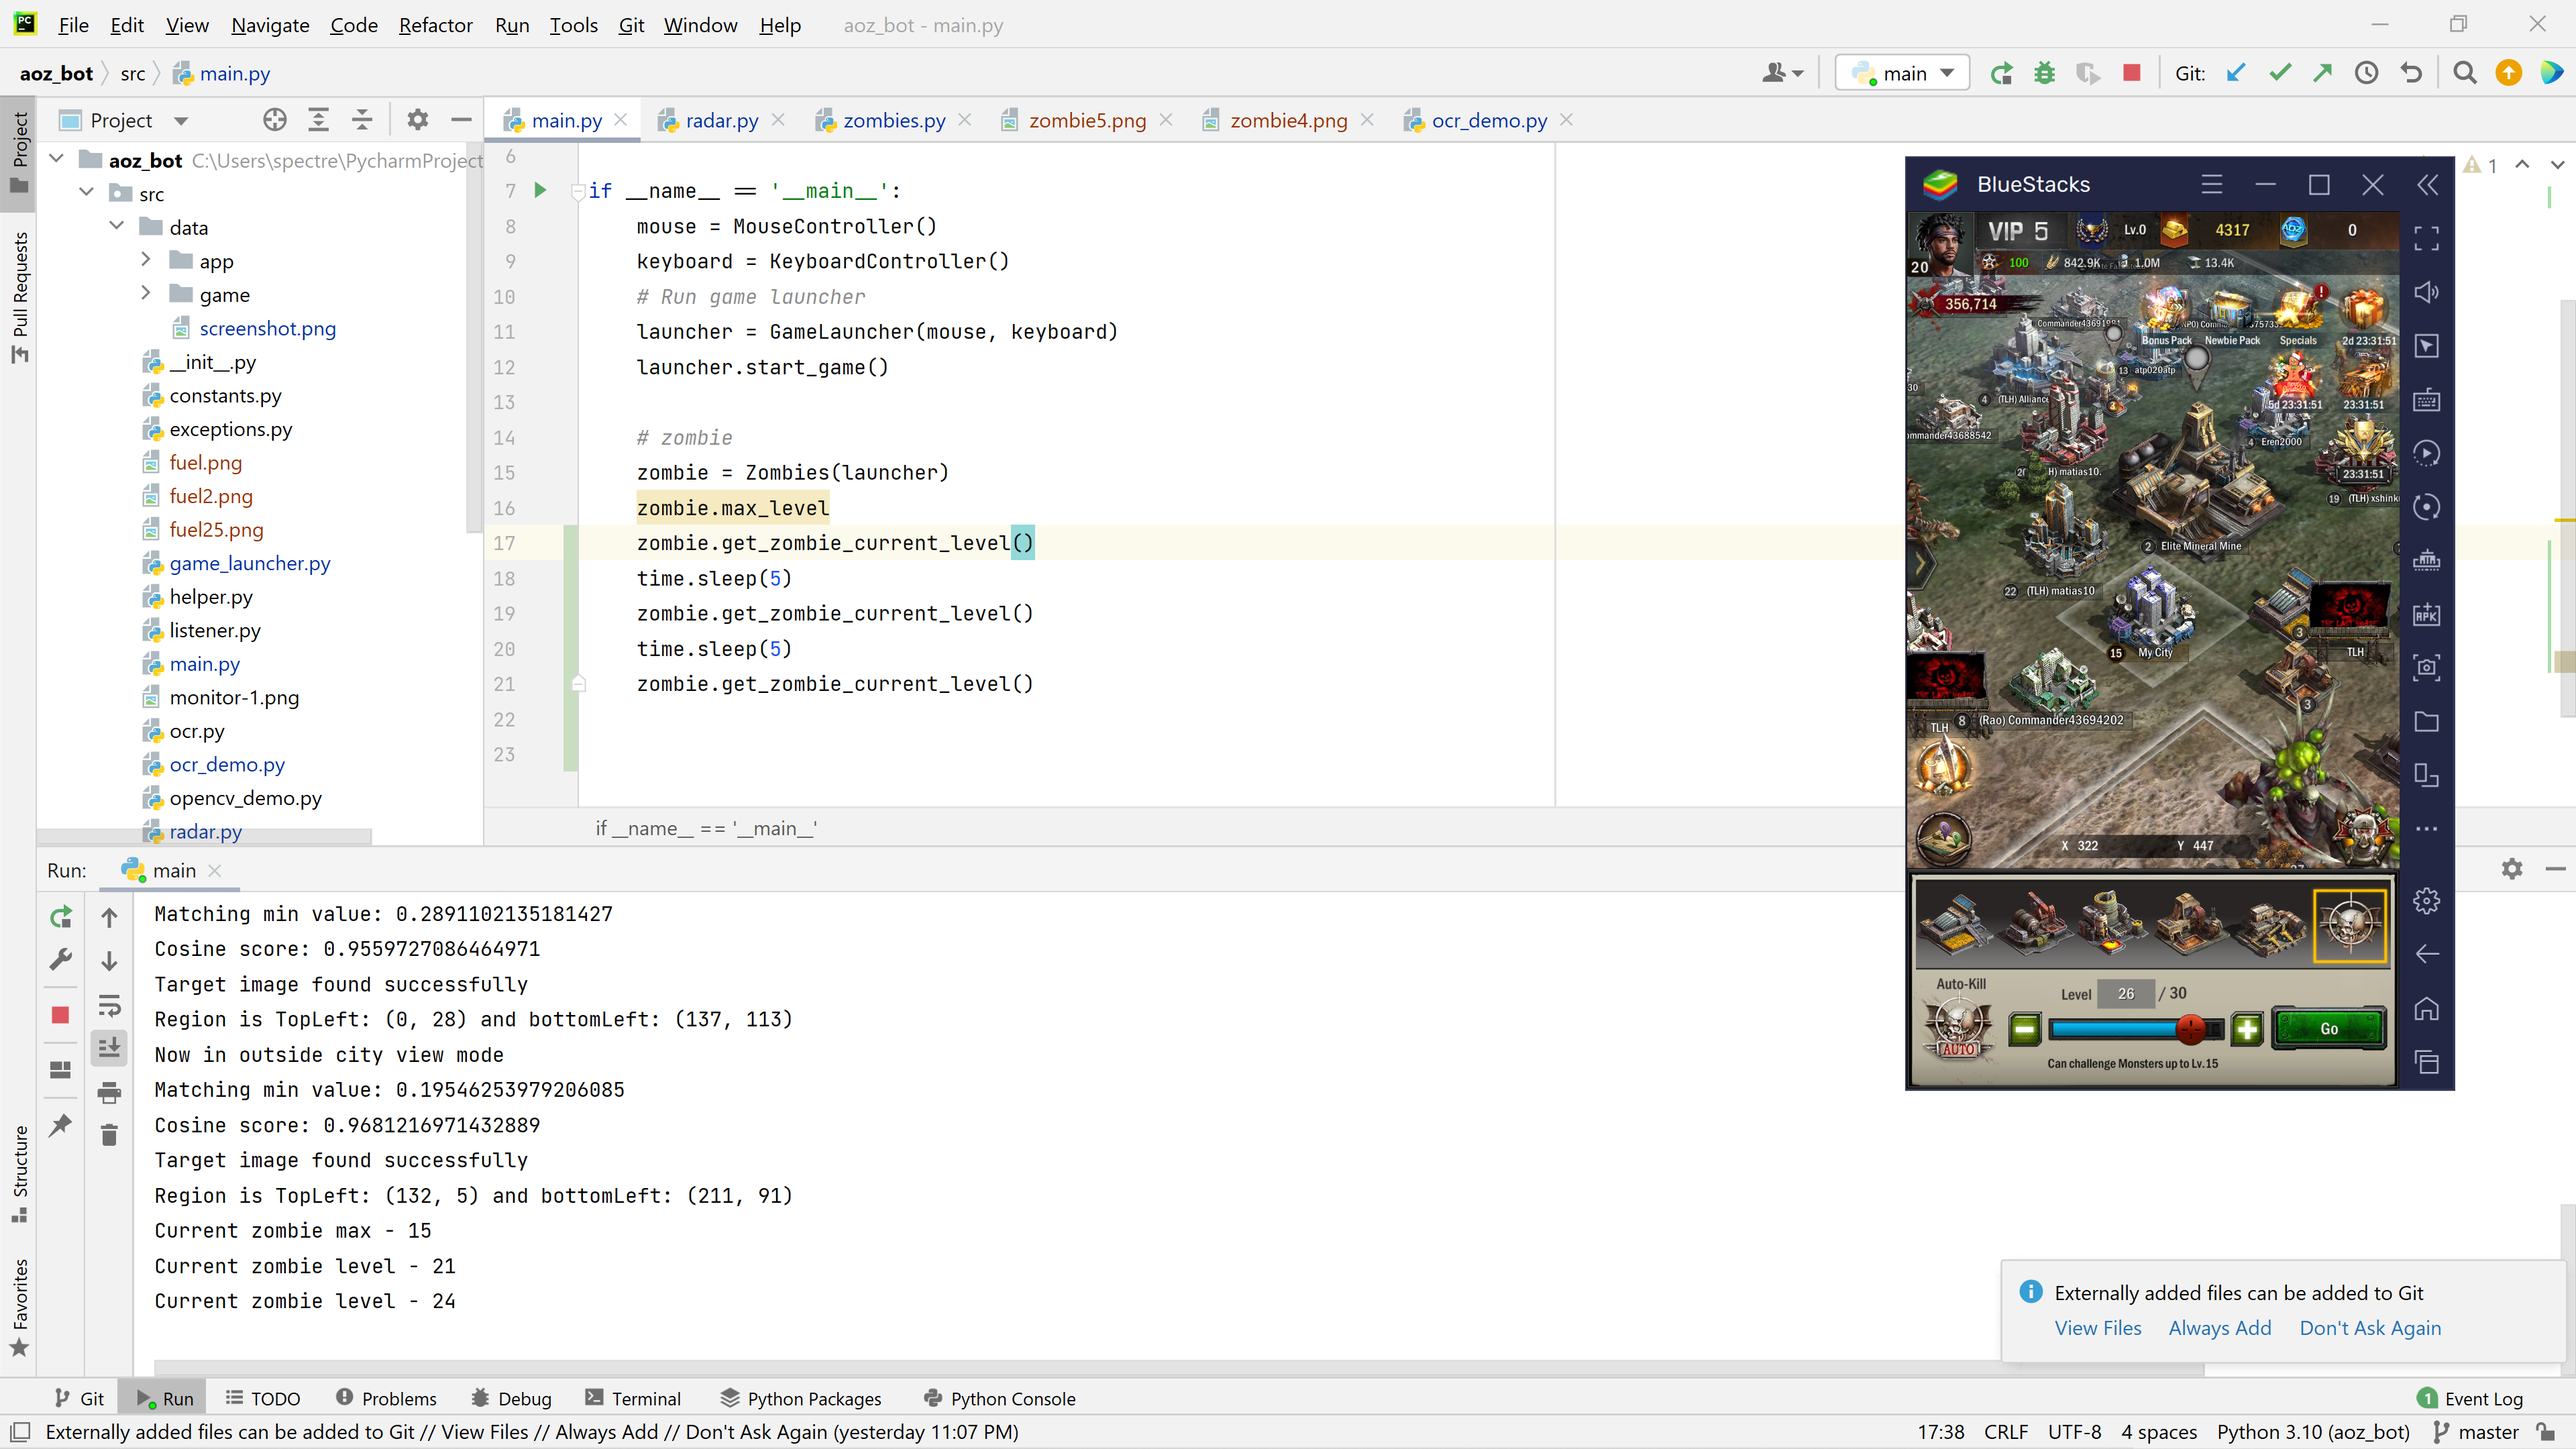
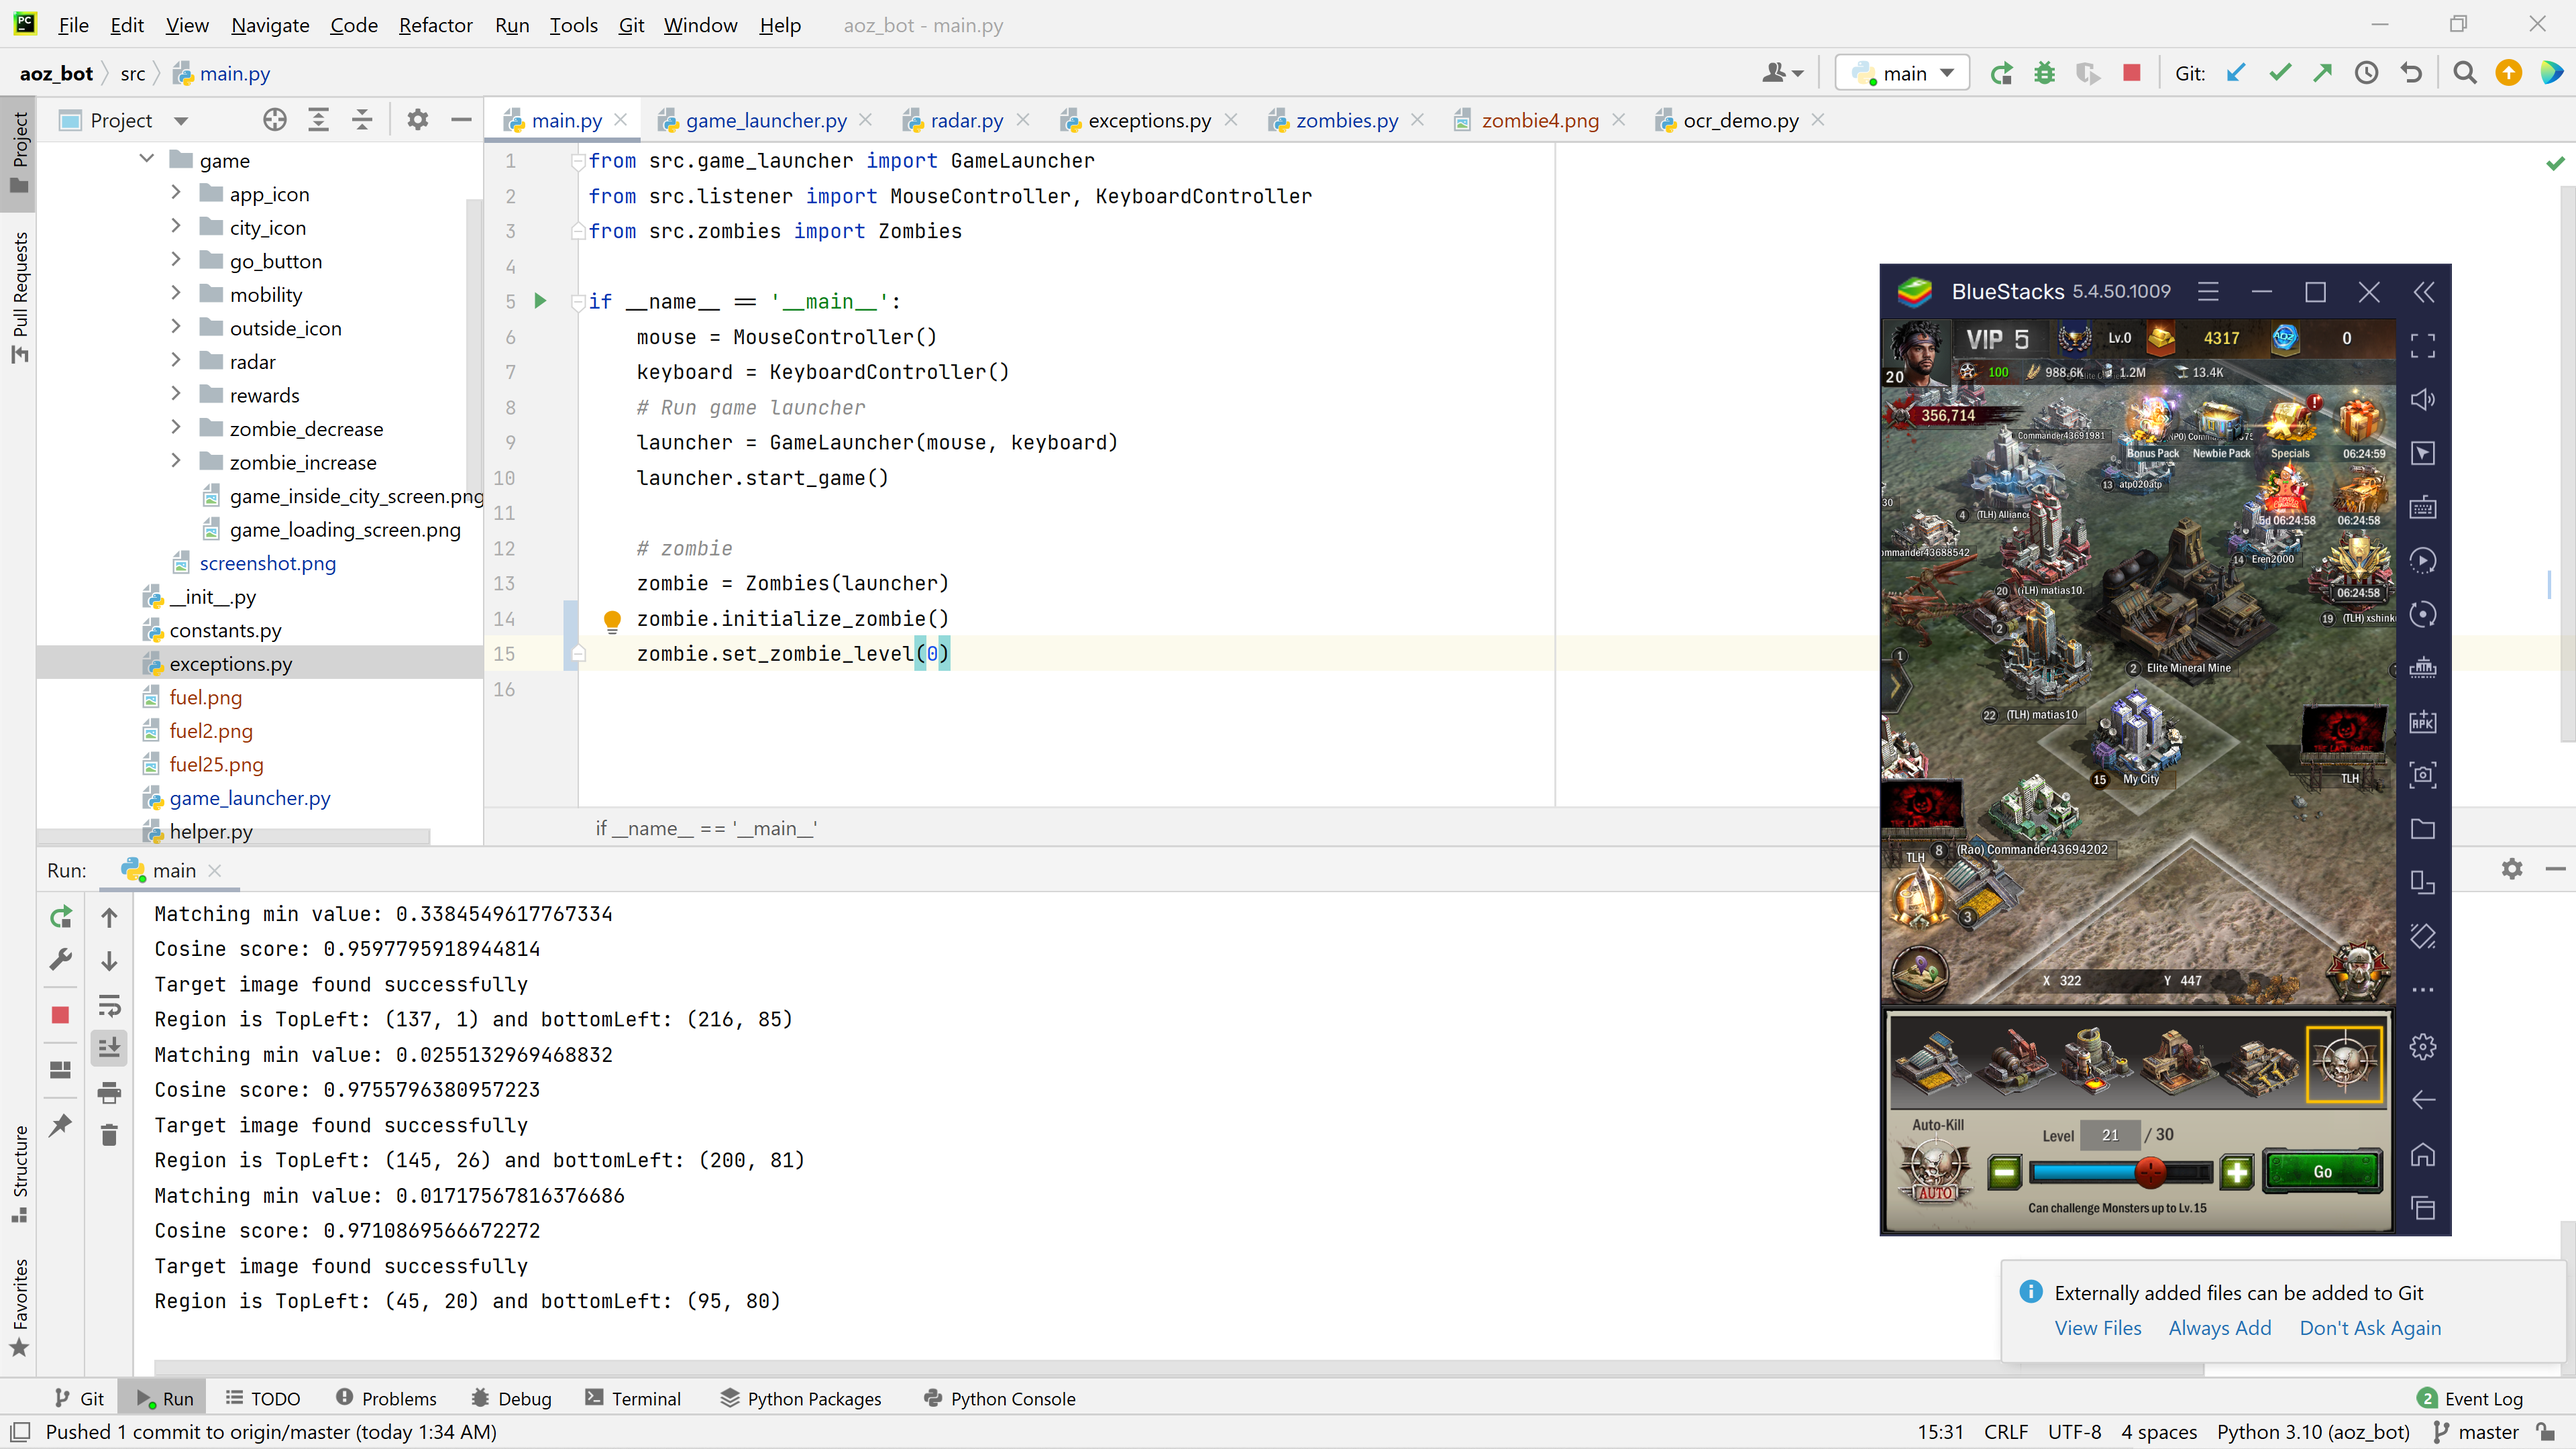
Adds support for setting the zombie level.  - Add support for getting to go button in the radar options  - Added zombie initialization code.

diff --git a/src/zombies.py b/src/zombies.py
@@ -1,11 +1,14 @@
 """Responsible for killing zombies in the Game event"""
+import time
+from typing import Optional
+
 import cv2
 import numpy as np
 
 from src.constants import OUTSIDE_VIEW, BOTTOM_IMAGE, LEFT_IMAGE, RIGHT_IMAGE
 from src.exceptions import ZombieException
 from src.game_launcher import GameLauncher
-from src.helper import GameHelper
+from src.helper import GameHelper, Coordinates
 from src.ocr import get_text_from_image
 from src.radar import Radar
 
@@ -22,7 +25,7 @@ class Zombies:
      - find and click on the find zombie radar ---- done
      - get the current level of zombie for the user --- done
      - increase and decrease the zombie level. -- done
-     - get the current zombie level ---
+     - get the current zombie level --- done
      - click on go to find any available zombie
      - search and find the arrow that shows for about 6 secs before disappearing
      - click on the given zombie (confirm it is the right zombie level)
@@ -46,8 +49,8 @@ class Zombies:
         self._fuel = None
         self.launcher = launcher
         self._max_level = None
-        self._decrease_btn_cords = None
-        self._increase_btn_cords = None
+        self._decrease_btn_cords: Optional[Coordinates] = None
+        self._increase_btn_cords: Optional[Coordinates] = None
         self.radar = Radar(self.launcher)
 
     @property
@@ -124,8 +127,6 @@ class Zombies:
         Gets the current max level of zombie
         :return: Current zombie max level
         """
-        # Set to the zombie radar screen
-        self.radar.select_radar_menu(6)
         zombie_section, _ = self.launcher. \
             get_screen_section(4, BOTTOM_IMAGE)
         t_h, t_w, _ = zombie_section.shape
@@ -181,6 +182,13 @@ class Zombies:
                                          self._increase_btn_cords.start_y)
         self.launcher.mouse.move(*increase_center)
 
+    def initialize_zombie(self):
+        """Initialize zombie buttons"""
+        # Set to the zombie radar screen
+        self.radar.select_radar_menu(6)
+        self.get_zombie_increment_position()
+        self._max_level = self.get_zombie_max()
+
     def get_zombie_current_level(self):
         """
         Fetches the current zombie level.
@@ -208,6 +216,62 @@ class Zombies:
             return int(zombie_level_val.strip())
 
         raise ZombieException("Zombie current level can not be extracted")
+
+    def zombie_go(self):
+        """
+        Activates the zombie go button to find the next available zombie.
+        :return:
+        """
+        self.launcher.mouse.set_position(self.radar.go_button)
+        center = GameHelper.get_center(self.radar.go_button)
+        self.launcher.mouse.move(*center)
+
+    def _adjust_level(self, level_type: str, increase_count: int):
+        """
+        Adjust the current zombie level to match the expected level
+        :return:
+        """
+        self.launcher.log_message(f'Adjusting zombie level - {level_type}, '
+                                  f'{increase_count}')
+        if level_type == 'INCREASE':
+            self.launcher.mouse.set_position(
+                self._increase_btn_cords.start_x,
+                self._increase_btn_cords.start_y)
+            center = GameHelper.get_center(self._increase_btn_cords)
+            self.launcher.mouse.move(*center)
+        elif level_type == 'DECREASE':
+            self.launcher.mouse.set_position(
+                self._decrease_btn_cords.start_x,
+                self._decrease_btn_cords.start_y)
+            center = GameHelper.get_center(self._decrease_btn_cords)
+            self.launcher.mouse.move(*center)
+        else:
+            raise ZombieException('Level type not supported')
+        time.sleep(1)
+        for _ in range(increase_count):
+            self.launcher.mouse.click()
+            time.sleep(1)
+
+    def set_zombie_level(self, level: int):
+        """
+        Set the zombie level. If level is greater than max level.
+        Set to max level - 1
+
+        :param level: The expected level.
+        :returns: None
+        """
+        new_level = self.max_level if level > self.max_level else level
+        # enforces new level is a positive real number
+        new_level = new_level if new_level > 0 else 1
+        current_level = self.get_zombie_current_level()
+        increase_count = abs(new_level - current_level)
+        self.launcher.log_message(f'Adjusting zombie level - {new_level}')
+        if new_level > current_level:
+            level_type = 'INCREASE'
+            self._adjust_level(level_type, increase_count)
+        elif new_level < current_level:
+            level_type = 'DECREASE'
+            self._adjust_level(level_type, increase_count)
 
     def zombie_city(self):
         """

diff --git a/src/game_launcher.py b/src/game_launcher.py
@@ -51,6 +51,10 @@ class GameLauncher:
         "city-icon": str(cwd.joinpath("data", "game", "city_icon")),
         "outside-icon": str(cwd.joinpath("data", "game", "outside_icon")),
         "radar": str(cwd.joinpath("data", "game", "radar")),
+        "go-button": str(cwd.joinpath("data", "game", "go_button")),
+        "zombie-decrease": str(cwd.joinpath("data", "game", "zombie_decrease")),
+        "zombie-increase": str(cwd.joinpath("data", "game",
+                                            "zombie_increase")),
 
     }
     IMG_COLOR = cv.IMREAD_COLOR
@@ -426,21 +430,9 @@ class GameLauncher:
 
     def target_templates(self, target: str) -> List[np.ndarray]:
         """Return all the target specified templates"""
-        if target.lower() == "game":
-            directory = self._templates_path["game"]
-        elif target.lower() == "rewards":
-            directory = self._templates_path["rewards"]
-        elif target.lower() == "app":
-            directory = self._templates_path["app"]
-        elif target.lower() == "mobility":
-            directory = self._templates_path["mobility"]
-        elif target.lower() == "city-icon":
-            directory = self._templates_path["city-icon"]
-        elif target.lower() == "outside-icon":
-            directory = self._templates_path["outside-icon"]
-        elif target.lower() == "radar":
-            directory = self._templates_path["radar"]
-        else:
+        try:
+            directory = self._templates_path[target.lower()]
+        except KeyError:
             raise Exception(f"Target {target} is not recognized")
         return self._load_all_templates(directory)
 

diff --git a/src/radar.py b/src/radar.py
@@ -19,10 +19,17 @@ class Radar:
     def __new__(cls, *args, **kwargs):
         if not cls._instance:
             cls._instance = super(Radar, cls).__new__(cls)
-            print(args, kwargs)
             cls._instance.launcher = args[0]  # type GameLauncher
             cls._instance._activated = False
+            cls._instance._go_button = None
         return cls._instance
+
+    @property
+    def go_button(self) -> Coordinates:
+        """Returns the go button coordinates"""
+        if not self._go_button:
+            self._go_button = self.get_go_button()
+        return self._go_button
 
     def activate_radar(self):
         """
@@ -98,3 +105,19 @@ class Radar:
         time.sleep(2)
         self.launcher.mouse.click()
         time.sleep(2)
+
+    def get_go_button(self) -> Coordinates:
+        """
+        Returns the go button for the display radar menu.
+        :returns: Coordinates of the go button.
+        """
+        go_section, go_relative = self.launcher. \
+            get_screen_section(13, BOTTOM_IMAGE)
+        go_cords = self.launcher.find_target(
+            go_section,
+            self.launcher.target_templates('go-button'))
+        if not go_cords:
+            raise RadarException("Radar go button not found")
+        go_btn_cords = GameHelper.get_relative_coordinates(
+            go_relative, go_cords)
+        return go_btn_cords

diff --git a/src/main.py b/src/main.py
@@ -11,5 +11,5 @@ if __name__ == '__main__':
 
     # zombie
     zombie = Zombies(launcher)
-    zombie.max_level
-    zombie.get_zombie_current_level()
+    zombie.initialize_zombie()
+    zombie.set_zombie_level(0)
